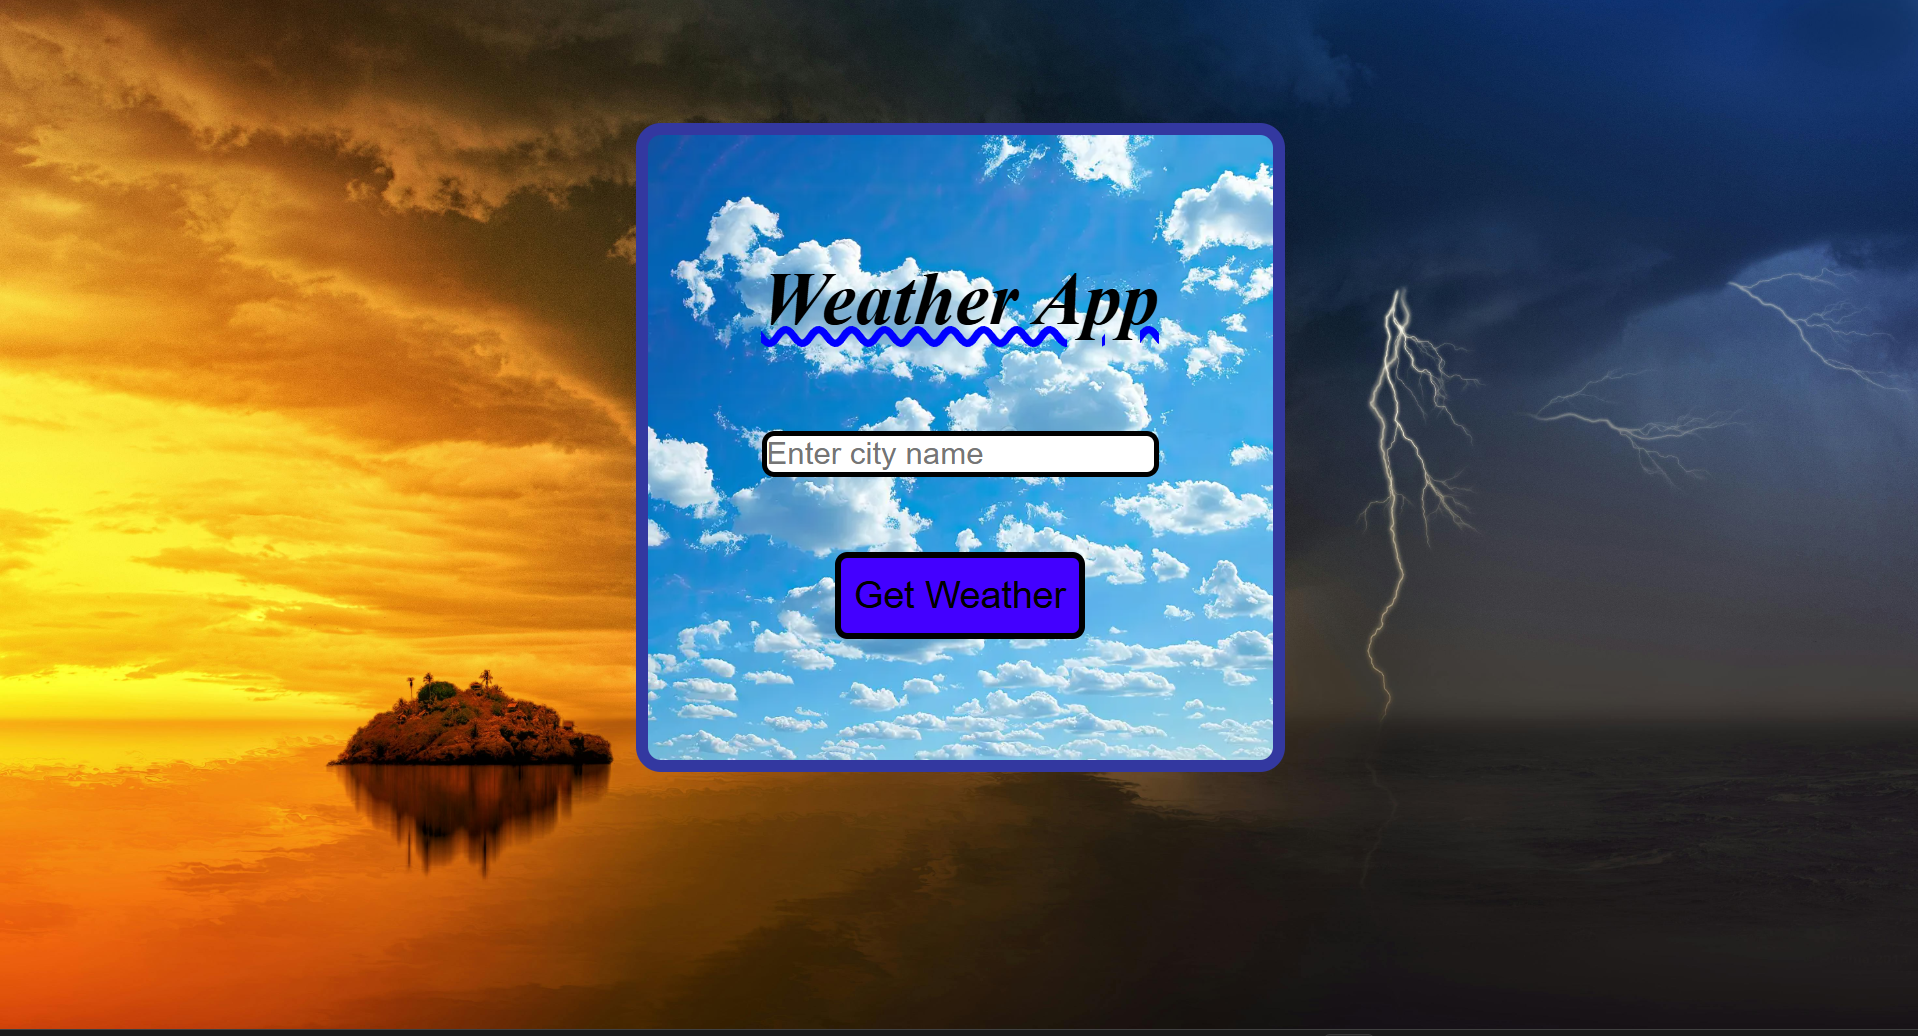
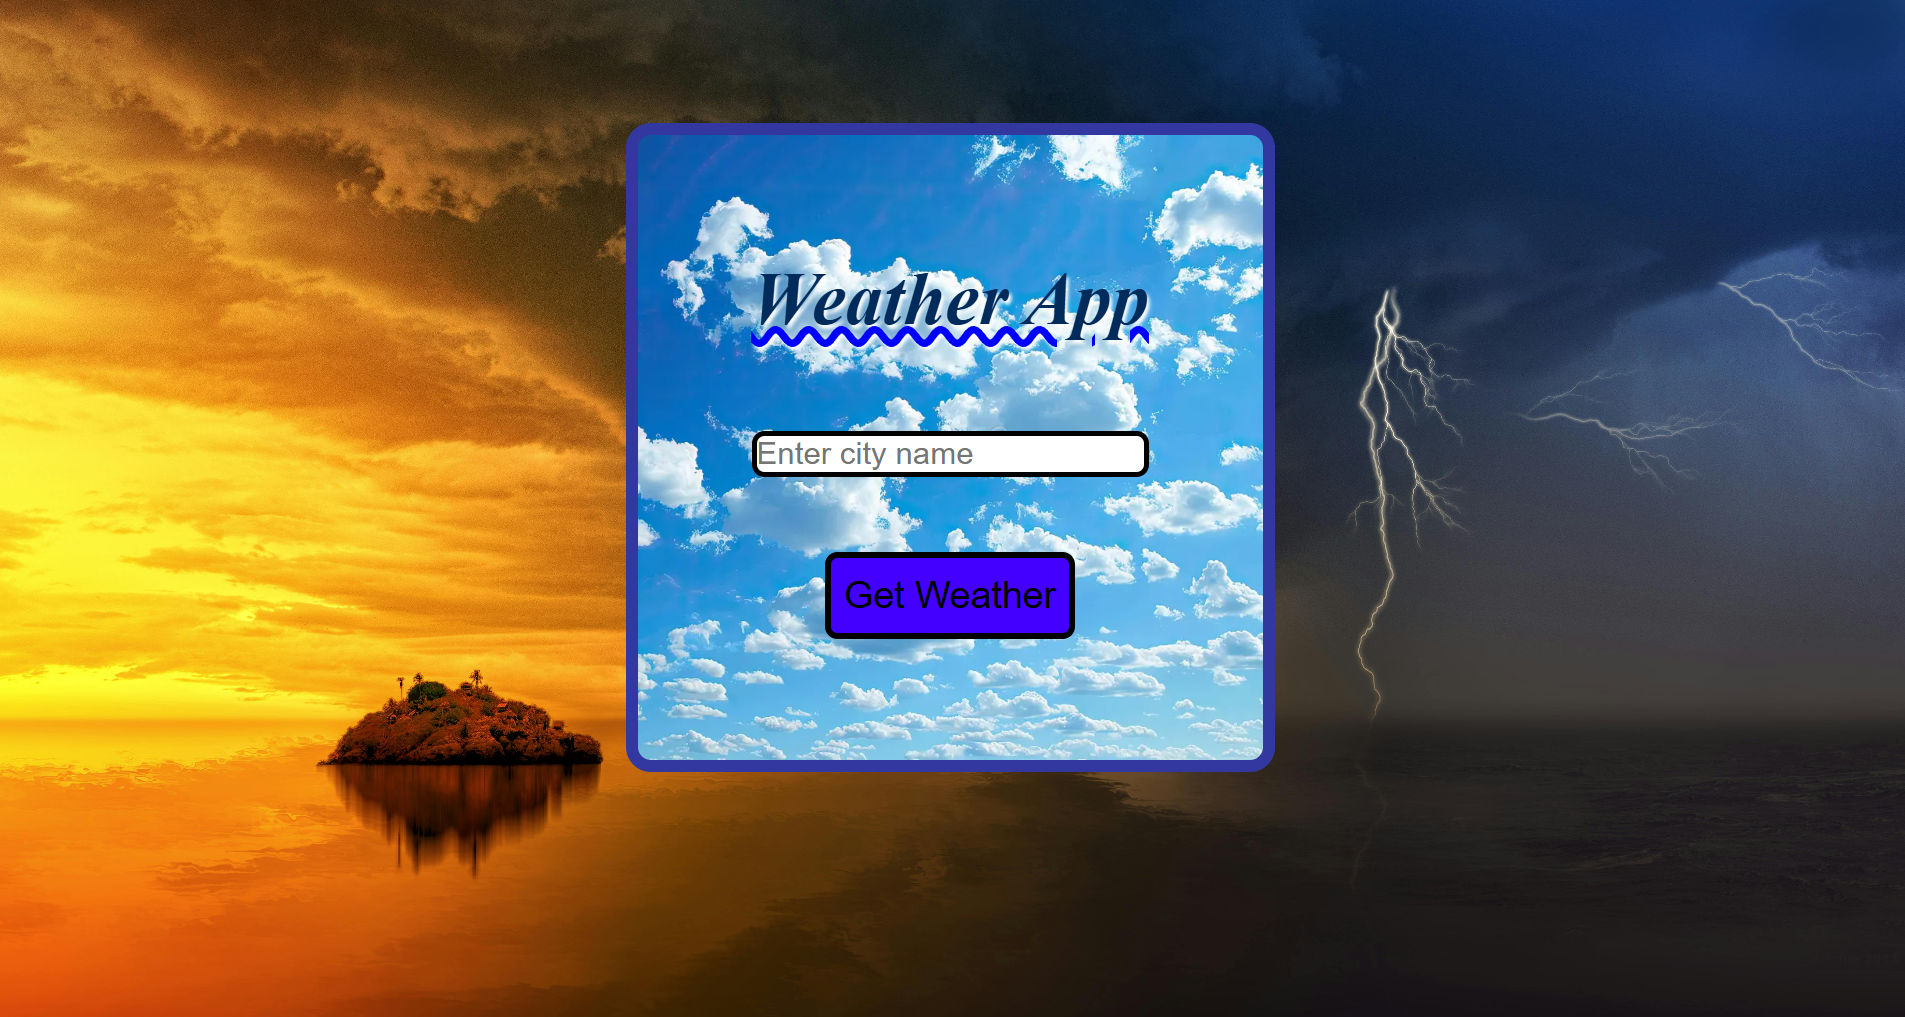
changing text color

diff --git a/logic.js b/logic.js
@@ -6,8 +6,12 @@ button.addEventListener("click",async ()=>{
     let city=input.value
     const url=`https://api.openweathermap.org/data/2.5/weather?q=${city}&appid=${apikey}&units=metric`
     let response=await  fetch(url)
+    if(response.ok==false){
+        info.style.display="flex"
+        info.innerText="Sorry city not found!"
+        info.style.color="crimson"
+    }
     let data=await response.json()
-    console.log(data)
     info.style.display="flex"
     let div=document.querySelectorAll("p")
     div[1].innerText=""

diff --git a/style.css b/style.css
@@ -22,6 +22,8 @@ body{
     gap:60px;
     border:10px solid #3338A0;
     border-radius: 20px;
+    color:#002b5b;
+    text-shadow: 2px 3px 3px white;
 }
 .heading{
     height:80px;
@@ -42,13 +44,14 @@ body{
     border-radius: 10px;
     background-color: #4300FF;
     font-size:30px ;
+    cursor: pointer;
 }
 .info{
     font-size: 40px;
     font-weight: 800;
     margin-left: 50px;
     display:none;
-    text-decoration: #4300FF underline;
+    /*text-decoration: #4300FF underline;*/
 }
 .entervalue{
     display:flex;

diff --git a/index.html b/index.html
@@ -16,10 +16,10 @@
     </div>
     <div class="info container">
         <p class="name"></p>
-        <p class="temp"></p>
-        <p class="pressure"></p>
-        <p class="weather"></p>
-        <p class="speed"></p>
+        <p></p>
+        <p></p>
+        <p></p>
+        <p></p>
     </div>
 <script src="logic.js"></script>
 </body>

diff --git a/README.md b/README.md
@@ -3,7 +3,8 @@ A simple weather app built using HTML, CSS, and JavaScript. It fetches real-time
 
 🔧 Features~
 - Search weather by city name.  
-- Displays temperature,pressure,weather and wind speed.  
+- Displays temperature,pressure,weather and wind speed.
+- Handles error. 
 - Beautiful background image.
 
 🛠 Tech Stack~
